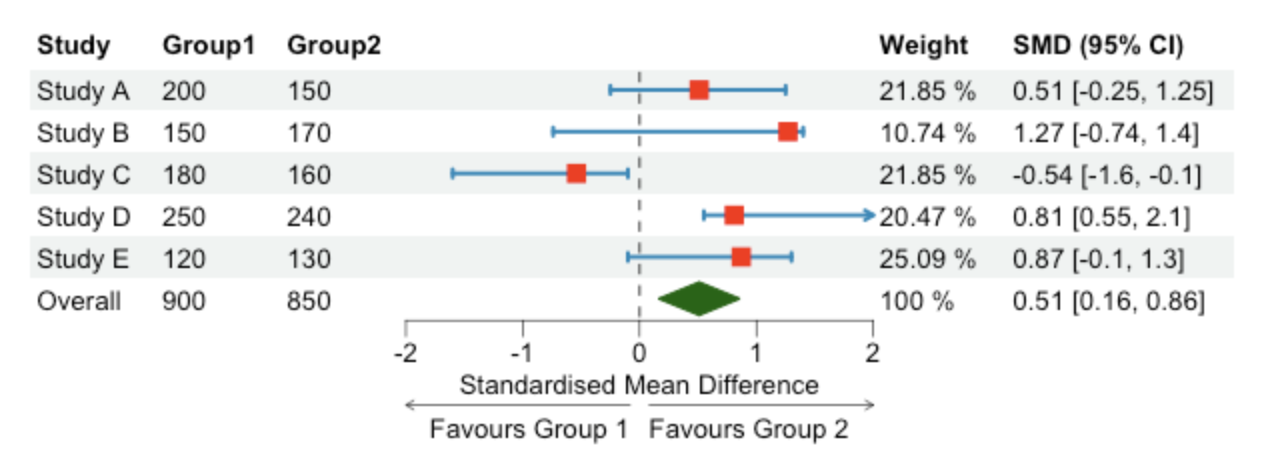
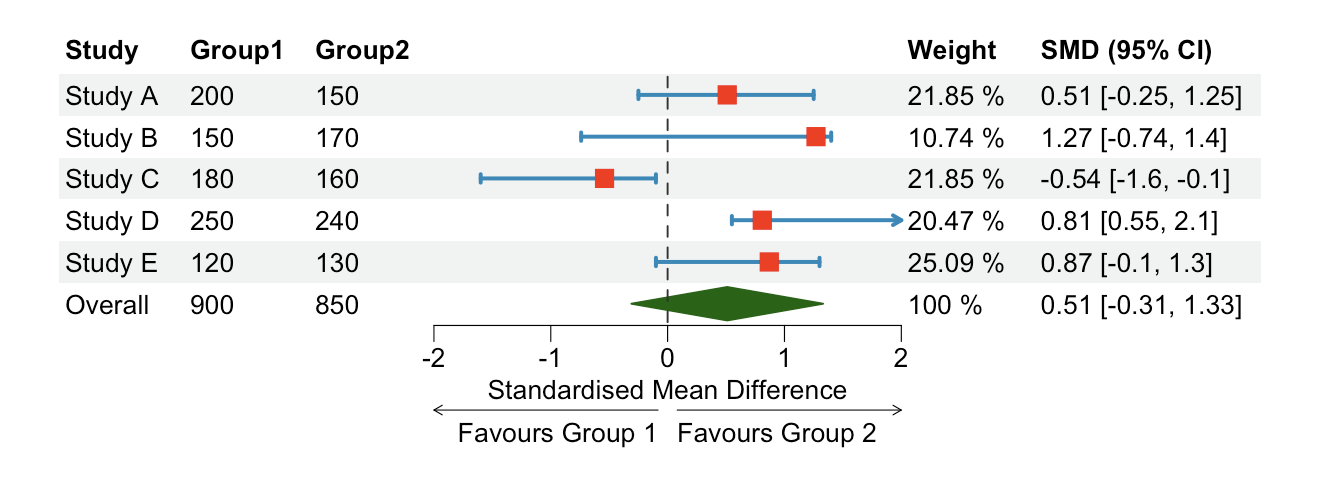
finished

diff --git a/content/building-blocks/collaborate-and-share-your-work/write-your-paper/forest-plot-generation-r.md b/content/building-blocks/collaborate-and-share-your-work/write-your-paper/forest-plot-generation-r.md
@@ -7,8 +7,8 @@ weight: 1
 author: "Matteo Zicari"
 authorlink: "https://www.linkedin.com/in/matteozicari/"
 aliases:
-  - /visualize/data
-  - /r/forest plots
+  - /visualise/data
+  - /r/forest/plots
 ---
 
 ## Overview
@@ -31,39 +31,9 @@ One of the most popular R packages used for forest plots is [forestploter](https
 
 <br/>
 
-### Upload/Generate Dataset
-The code snippet below shows how to `upload` an **example dataset** and generate a **basic layout** for the forest plot:
+### Generate Dataset
 
-{{% codeblock %}}
-```R
-# Load necessary packages
-library(forestploter)
-library(grid)
-
-# Retrieve example dataset from the `forestploter` package
-data <- read.csv(system.file("extdata", "example_data.csv", package = "forestploter"))
-
-# Data manipulation
-data <- data[,1:6]
-
-data$Subgroup <- ifelse(is.na(data$Placebo), 
-                      data$Subgroup,
-                      paste0("   ", data$Subgroup))
-
-data$Treatment <- ifelse(is.na(data$Treatment), "", data$Treatment)
-data$Placebo <- ifelse(is.na(data$Placebo), "", data$Placebo)
-data$se <- (log(data$hi) - log(data$est))/1.96
-
-data$` ` <- paste(rep(" ", 20), collapse = " ")
-
-data$`HR (95% CI)` <- ifelse(is.na(data$se), "",
-                             sprintf("%.2f (%.2f to %.2f)",
-                                     data$est, data$low, data$hi))
-
-```
-{{% /codeblock %}}
-
-A valid alternative is to `generate` a simulated dataset of our own:
+The code snippet below shows how to `generate` a `dataset` and create a `basic layout` for a forest plot:
 
 {{% codeblock %}}
 ```R
@@ -86,8 +56,14 @@ data$se <- (data$CI_Upper - data$CI_Lower) / (2 * 1.96)
 data$Weight <- 1/data$se^2
 data$Weight <- data$Weight/sum(data$Weight)
 
-pooled_effect <- round(sum(data$smd*data$Weight),2)
-pooled_se <- round(1 / sqrt(sum(1 / (data$se^2))),2)
+pooled_effect <- round(sum(data$smd * data$Weight),2)
+
+data$n <- (data$Group1 + data$Group2)
+n_studies <- 5 
+pooled_se <- sqrt(
+  (sum((data$n - 1) * data$se^2)) / ((sum(data$n) - n_studies))
+)
+
 z_score <- qnorm(0.975)
 lower_bound <- round(pooled_effect - z_score * pooled_se, 2)
 upper_bound <- round(pooled_effect + z_score * pooled_se, 2)
@@ -113,7 +89,7 @@ data[nrow(data), 1] <- "Overall"
 {{% /codeblock %}}
 
 ### Create Forest Plot Theme
-The following code snippet shows how to **set** a **personalised theme** for the forest plot:
+The following code snippet shows how to **set** a **personalised theme** for a forest plot:
 
 {{% codeblock %}}
 ```R
@@ -146,7 +122,7 @@ Type `help(forest_theme)` in your R terminal for more info about the `forest_the
 {{% /tip %}}
 
 ### Draw Forest Plot
-The following code snippet shows how to **draw** a **forest plot** starting from the simulated dataset:
+The following code snippet shows how to **generate** a **forest plot** once dataset and theme are set:
 
 {{% codeblock %}}
 ```R
@@ -194,11 +170,11 @@ This is what the `final output` should look like:
 ## Interpret Forest Plots
 The following is an explanation of how to interpret the figure above:
 
-* **Study**: results source;
-* **Group 1/2**: number of participants in the study. Normally the two groups are split between `treatment` and `control` groups;
-* **Squares**  (red): effect size of the indvidual studies. In this example, the effect size is represented by the `standardised mean difference` between the averages of the two groups. Other possible effect sizes are `mean difference`, `odds ratio`, or `hazard ratio`;
-* **Horizontal** (blue) **lines**: `95% confidence intervals` (CI). The interpretation is that we are 95% confident that the true value of the effect size lies between the lower and upper bounds. The wider the CI the less precise the study;
-* **Diamond** (green): `pooled summary effect` of all the studies included in the meta-analysis. The middle points of the diamond represent the pooled effect, while the points on the sides its 95% confidence interval;
-* **Dotted Line**: this line is known as `line of no effect` and it is plotted at the exact point where, relative to the effect size chosen in the analyis, there is no difference between the estimates of the two groups. If the effect size is based on a difference, the line of no effect will be at 0, whereas if the effect size is based on a ratio, the line of no effect will be at 1;
-* **Weight**: study weight is proportional to study precision and it represents the influence of each individual study on the pooled effect size. More practically, when the standard error of the estimate of a study increases, its weight decreases. An alternative approach is to use a weight that is positively correlated with sample size;
-* **SMD (95% CI)**: summary of effect size and confidence intervals of the graphical representation.
+* **Study**: results source.
+* **Group 1/2**: number of participants in the study. Normally the two groups are split between `treatment` and `control` groups.
+* **Squares**  (red): effect size of the indvidual studies. In this example, the effect size is represented by the `standardised mean difference` between the averages of the two groups. Other possible effect sizes are `mean difference`, `odds ratio`, or `hazard ratio`.
+* **Horizontal** (blue) **lines**: `95% confidence intervals` (CI). The interpretation is that we are 95% confident that the true value of the effect size lies between the lower and upper bounds. The wider the CI the less precise the study.
+* **Diamond** (green): `pooled summary effect` of all the studies included in the meta-analysis. The middle points of the diamond represent the pooled effect, while the points on the sides its 95% confidence interval.
+* **Dotted Line**: this line is known as `line of no effect` and it is plotted at the exact point where, relative to the effect size chosen in the analyis, there is no difference between the estimates of the two groups. If the effect size is based on a difference, the line of no effect will be at 0, whereas if the effect size is based on a ratio, the line of no effect will be at 1. This line is very useful to `interpret the results`, in fact, if the CI intersects the line, the results are **NOT significant**. In this case the pooled summary effect is not significant.
+* **Weight**: study weight is proportional to study precision and it represents the influence of each individual study on the pooled effect size. More practically, when the standard error of the estimate of a study increases, its weight decreases. An alternative approach is to use a weight that is positively correlated with sample size.
+* **SMD (95% CI)**: summary of effect size and confidence intervals in the graphical representation.
